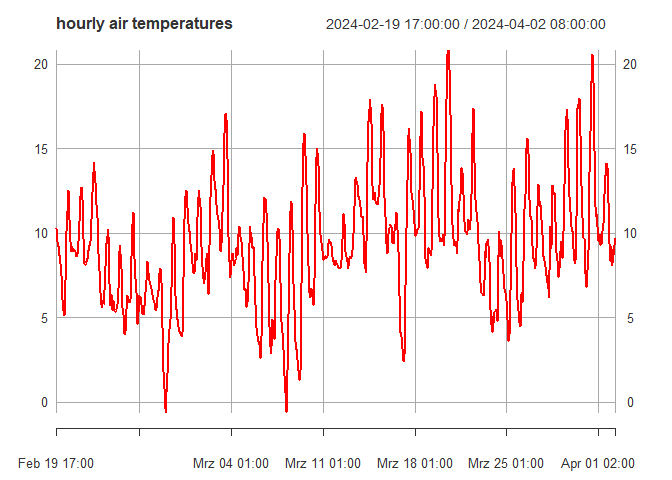
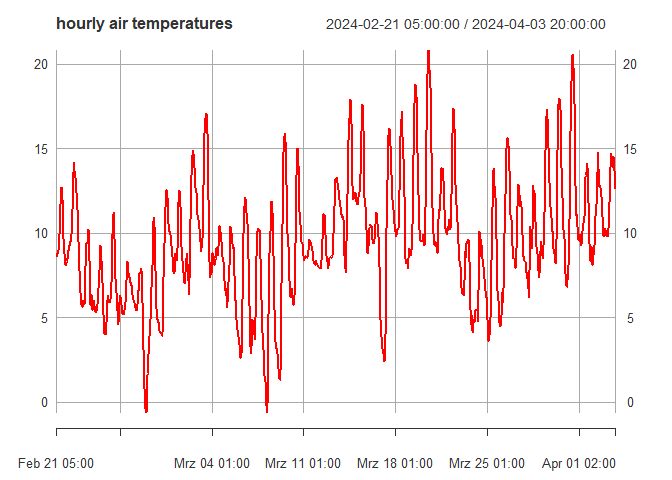
enh(unlist_response): purrr
fixes #58

diff --git a/README.md b/README.md
@@ -19,7 +19,7 @@ and load the package via
 
 ``` r
 library(netatmo.weather)
-#> 0.5.8
+#> 0.5.11
 ```
 
 ## Getting Started
@@ -156,36 +156,29 @@ This information can now be used to list stations located in this area
 ``` r
 stations <- get_publicdata(ext = e1)
 #> /getpublicdata: Fetching stations from the following area: 6.89, 51.34, 7.13, 51.53 ...
-#> Warning: Automatic coercion from double to character was deprecated in purrr 1.0.0.
-#> ℹ Please use an explicit call to `as.character()` within `map_chr()` instead.
-#> ℹ The deprecated feature was likely used in the netatmo.weather package.
-#>   Please report the issue to the authors.
-#> This warning is displayed once every 8 hours.
-#> Call `lifecycle::last_lifecycle_warnings()` to see where this warning was
-#> generated.
 
 stations
-#> Simple feature collection with 308 features and 13 fields
+#> Simple feature collection with 306 features and 13 fields
 #> Geometry type: POINT
 #> Dimension:     XY
 #> Bounding box:  xmin: 6.890067 ymin: 51.34127 xmax: 7.129903 ymax: 51.52976
 #> Geodetic CRS:  WGS 84
-#> # A tibble: 308 × 14
-#>    status time_server         base_station      timezone  country altitude city 
-#>  * <chr>  <dttm>              <chr>             <chr>     <chr>      <int> <chr>
-#>  1 ok     2024-04-02 10:45:04 70:ee:50:01:c7:c6 Europe/B… DE           111 Essen
-#>  2 ok     2024-04-02 10:45:04 70:ee:50:6b:34:74 Europe/B… DE           112 Essen
-#>  3 ok     2024-04-02 10:45:04 70:ee:50:04:ce:cc Europe/B… DE           114 Essen
-#>  4 ok     2024-04-02 10:45:04 70:ee:50:a9:cd:04 Europe/B… DE           108 Essen
-#>  5 ok     2024-04-02 10:45:04 70:ee:50:a2:01:6a Europe/B… DE           108 Essen
-#>  6 ok     2024-04-02 10:45:04 70:ee:50:02:c9:10 Europe/B… DE            60 Essen
-#>  7 ok     2024-04-02 10:45:04 70:ee:50:a5:9f:7a Europe/B… DE            69 Essen
-#>  8 ok     2024-04-02 10:45:04 70:ee:50:05:06:2a Europe/B… DE            69 Essen
-#>  9 ok     2024-04-02 10:45:04 70:ee:50:36:f4:76 Europe/B… DE            77 Essen
-#> 10 ok     2024-04-02 10:45:04 70:ee:50:af:31:5e Europe/B… DE           101 Essen
-#> # ℹ 298 more rows
-#> # ℹ 7 more variables: street <chr>, mark <int>, n_modules <int>,
-#> #   NAModule1 <chr>, NAModule2 <chr>, NAModule3 <chr>, geometry <POINT [°]>
+#> # A tibble: 306 × 14
+#>    status time_server         NAMain      timezone country altitude city  street
+#>  * <chr>  <dttm>              <chr>       <chr>    <chr>      <int> <chr> <chr> 
+#>  1 ok     2024-04-03 22:48:19 70:ee:50:0… Europe/… DE           111 Essen A 52  
+#>  2 ok     2024-04-03 22:48:19 70:ee:50:6… Europe/… DE           112 Essen Steel…
+#>  3 ok     2024-04-03 22:48:19 70:ee:50:0… Europe/… DE           114 Essen Steel…
+#>  4 ok     2024-04-03 22:48:19 70:ee:50:a… Europe/… DE           108 Essen Laure…
+#>  5 ok     2024-04-03 22:48:19 70:ee:50:a… Europe/… DE           108 Essen Eligi…
+#>  6 ok     2024-04-03 22:48:19 70:ee:50:0… Europe/… DE            60 Essen Hengl…
+#>  7 ok     2024-04-03 22:48:19 70:ee:50:a… Europe/… DE            69 Essen Notte…
+#>  8 ok     2024-04-03 22:48:19 70:ee:50:0… Europe/… DE            69 Essen Notte…
+#>  9 ok     2024-04-03 22:48:19 70:ee:50:3… Europe/… DE            77 Essen Lohmü…
+#> 10 ok     2024-04-03 22:48:19 70:ee:50:a… Europe/… DE           101 Essen Bochu…
+#> # ℹ 296 more rows
+#> # ℹ 6 more variables: mark <int>, n_modules <int>, NAModule1 <chr>,
+#> #   NAModule2 <chr>, NAModule3 <chr>, geometry <POINT [°]>
 ```
 
 However, since the number of stations returned by **/getpublicdata**
@@ -199,27 +192,27 @@ stations_tiled <- get_publicdata(ext = e1,
                                  tiles = TRUE)
 
 stations_tiled
-#> Simple feature collection with 632 features and 13 fields
+#> Simple feature collection with 628 features and 13 fields
 #> Geometry type: POINT
 #> Dimension:     XY
 #> Bounding box:  xmin: 6.890067 ymin: 51.34127 xmax: 7.129903 ymax: 51.52976
 #> Geodetic CRS:  WGS 84
-#> # A tibble: 632 × 14
-#>    status time_server         base_station      timezone  country altitude city 
-#>    <chr>  <dttm>              <chr>             <chr>     <chr>      <int> <chr>
-#>  1 ok     2024-04-02 10:45:58 70:ee:50:84:48:5a Europe/B… DE            45 Essen
-#>  2 ok     2024-04-02 10:45:58 70:ee:50:7a:81:24 Europe/B… DE            46 Essen
-#>  3 ok     2024-04-02 10:45:58 70:ee:50:af:62:5e Europe/B… DE            63 Essen
-#>  4 ok     2024-04-02 10:45:58 70:ee:50:af:86:16 Europe/B… DE            93 Essen
-#>  5 ok     2024-04-02 10:45:58 70:ee:50:12:f8:62 Europe/B… DE            48 Essen
-#>  6 ok     2024-04-02 10:45:58 70:ee:50:a4:68:a2 Europe/B… DE            57 Essen
-#>  7 ok     2024-04-02 10:45:58 70:ee:50:16:0e:06 Europe/B… DE            81 Essen
-#>  8 ok     2024-04-02 10:45:58 70:ee:50:7f:f6:c8 Europe/B… DE            61 Essen
-#>  9 ok     2024-04-02 10:45:58 70:ee:50:7a:94:9a Europe/B… DE            61 Essen
-#> 10 ok     2024-04-02 10:45:58 70:ee:50:7b:12:86 Europe/B… DE            66 Essen
-#> # ℹ 622 more rows
-#> # ℹ 7 more variables: street <chr>, mark <int>, n_modules <int>,
-#> #   NAModule1 <chr>, NAModule2 <chr>, NAModule3 <chr>, geometry <POINT [°]>
+#> # A tibble: 628 × 14
+#>    status time_server         NAMain      timezone country altitude city  street
+#>    <chr>  <dttm>              <chr>       <chr>    <chr>      <int> <chr> <chr> 
+#>  1 ok     2024-04-03 22:49:11 70:ee:50:8… Europe/… DE            45 Essen Volck…
+#>  2 ok     2024-04-03 22:49:11 70:ee:50:7… Europe/… DE            46 Essen Eva-H…
+#>  3 ok     2024-04-03 22:49:11 70:ee:50:a… Europe/… DE            63 Essen Am Mö…
+#>  4 ok     2024-04-03 22:49:11 70:ee:50:a… Europe/… DE            93 Essen Senge…
+#>  5 ok     2024-04-03 22:49:11 70:ee:50:1… Europe/… DE            48 Essen Johan…
+#>  6 ok     2024-04-03 22:49:11 70:ee:50:a… Europe/… DE            57 Essen Marti…
+#>  7 ok     2024-04-03 22:49:11 70:ee:50:1… Europe/… DE            81 Essen Akade…
+#>  8 ok     2024-04-03 22:49:11 70:ee:50:7… Europe/… DE            61 Essen Haupt…
+#>  9 ok     2024-04-03 22:49:11 70:ee:50:7… Europe/… DE            61 Essen Haupt…
+#> 10 ok     2024-04-03 22:49:11 70:ee:50:7… Europe/… DE            66 Essen Eiche…
+#> # ℹ 618 more rows
+#> # ℹ 6 more variables: mark <int>, n_modules <int>, NAModule1 <chr>,
+#> #   NAModule2 <chr>, NAModule3 <chr>, geometry <POINT [°]>
 ```
 
 ### /getmeasure
@@ -241,17 +234,17 @@ To assist you with the latter going backwards from `Sys.time()`,
 # 5-minutely data
 p1 <- get_period(res = 5)
 as.POSIXct(p1, origin = "1970-01-01")
-#> [1] "2024-03-29 19:40:00 CET"  "2024-04-02 10:00:00 CEST"
+#> [1] "2024-03-31 08:40:00 CEST" "2024-04-03 22:00:00 CEST"
 
 # hourly data
 p2 <- get_period(res = 60)
 as.POSIXct(p2, origin = "1970-01-01")
-#> [1] "2024-02-19 17:00:00 CET"  "2024-04-02 10:00:00 CEST"
+#> [1] "2024-02-21 05:00:00 CET"  "2024-04-03 22:00:00 CEST"
 
 # querying the last 24 hours, maybe convenient for scheduled jobs
 p3 <- get_period("recent")
 as.POSIXct(p3, origin = "1970-01-01")
-#> [1] "2024-04-01 10:00:00 CEST" "2024-04-02 10:00:00 CEST"
+#> [1] "2024-04-02 22:00:00 CEST" "2024-04-03 22:00:00 CEST"
 
 # self-defined period
 p4 <- get_period(c("2024-03-01", "2024-04-01"))
@@ -292,12 +285,12 @@ head(xts)
 #>   NOTE: set 'options(xts_check_TZ = FALSE)' to disable this warning
 #>     This note is displayed once per session
 #>                     temperature
-#> 2024-02-19 17:00:00        10.3
-#> 2024-02-19 18:00:00         9.7
-#> 2024-02-19 19:00:00         9.5
-#> 2024-02-19 20:00:00         9.2
-#> 2024-02-19 21:00:00         9.0
-#> 2024-02-19 22:00:00         8.7
+#> 2024-02-21 05:00:00         8.6
+#> 2024-02-21 06:00:00         8.8
+#> 2024-02-21 07:00:00         8.8
+#> 2024-02-21 08:00:00         9.0
+#> 2024-02-21 09:00:00         9.5
+#> 2024-02-21 10:00:00         9.9
 
 # inspect attribute names appended 
 attributes(xts) |> names() |> tail(-4)

diff --git a/NEWS.md b/NEWS.md
@@ -1,4 +1,4 @@
-# version 0.5.10
+# version 0.5.11
 
 ## features
 
